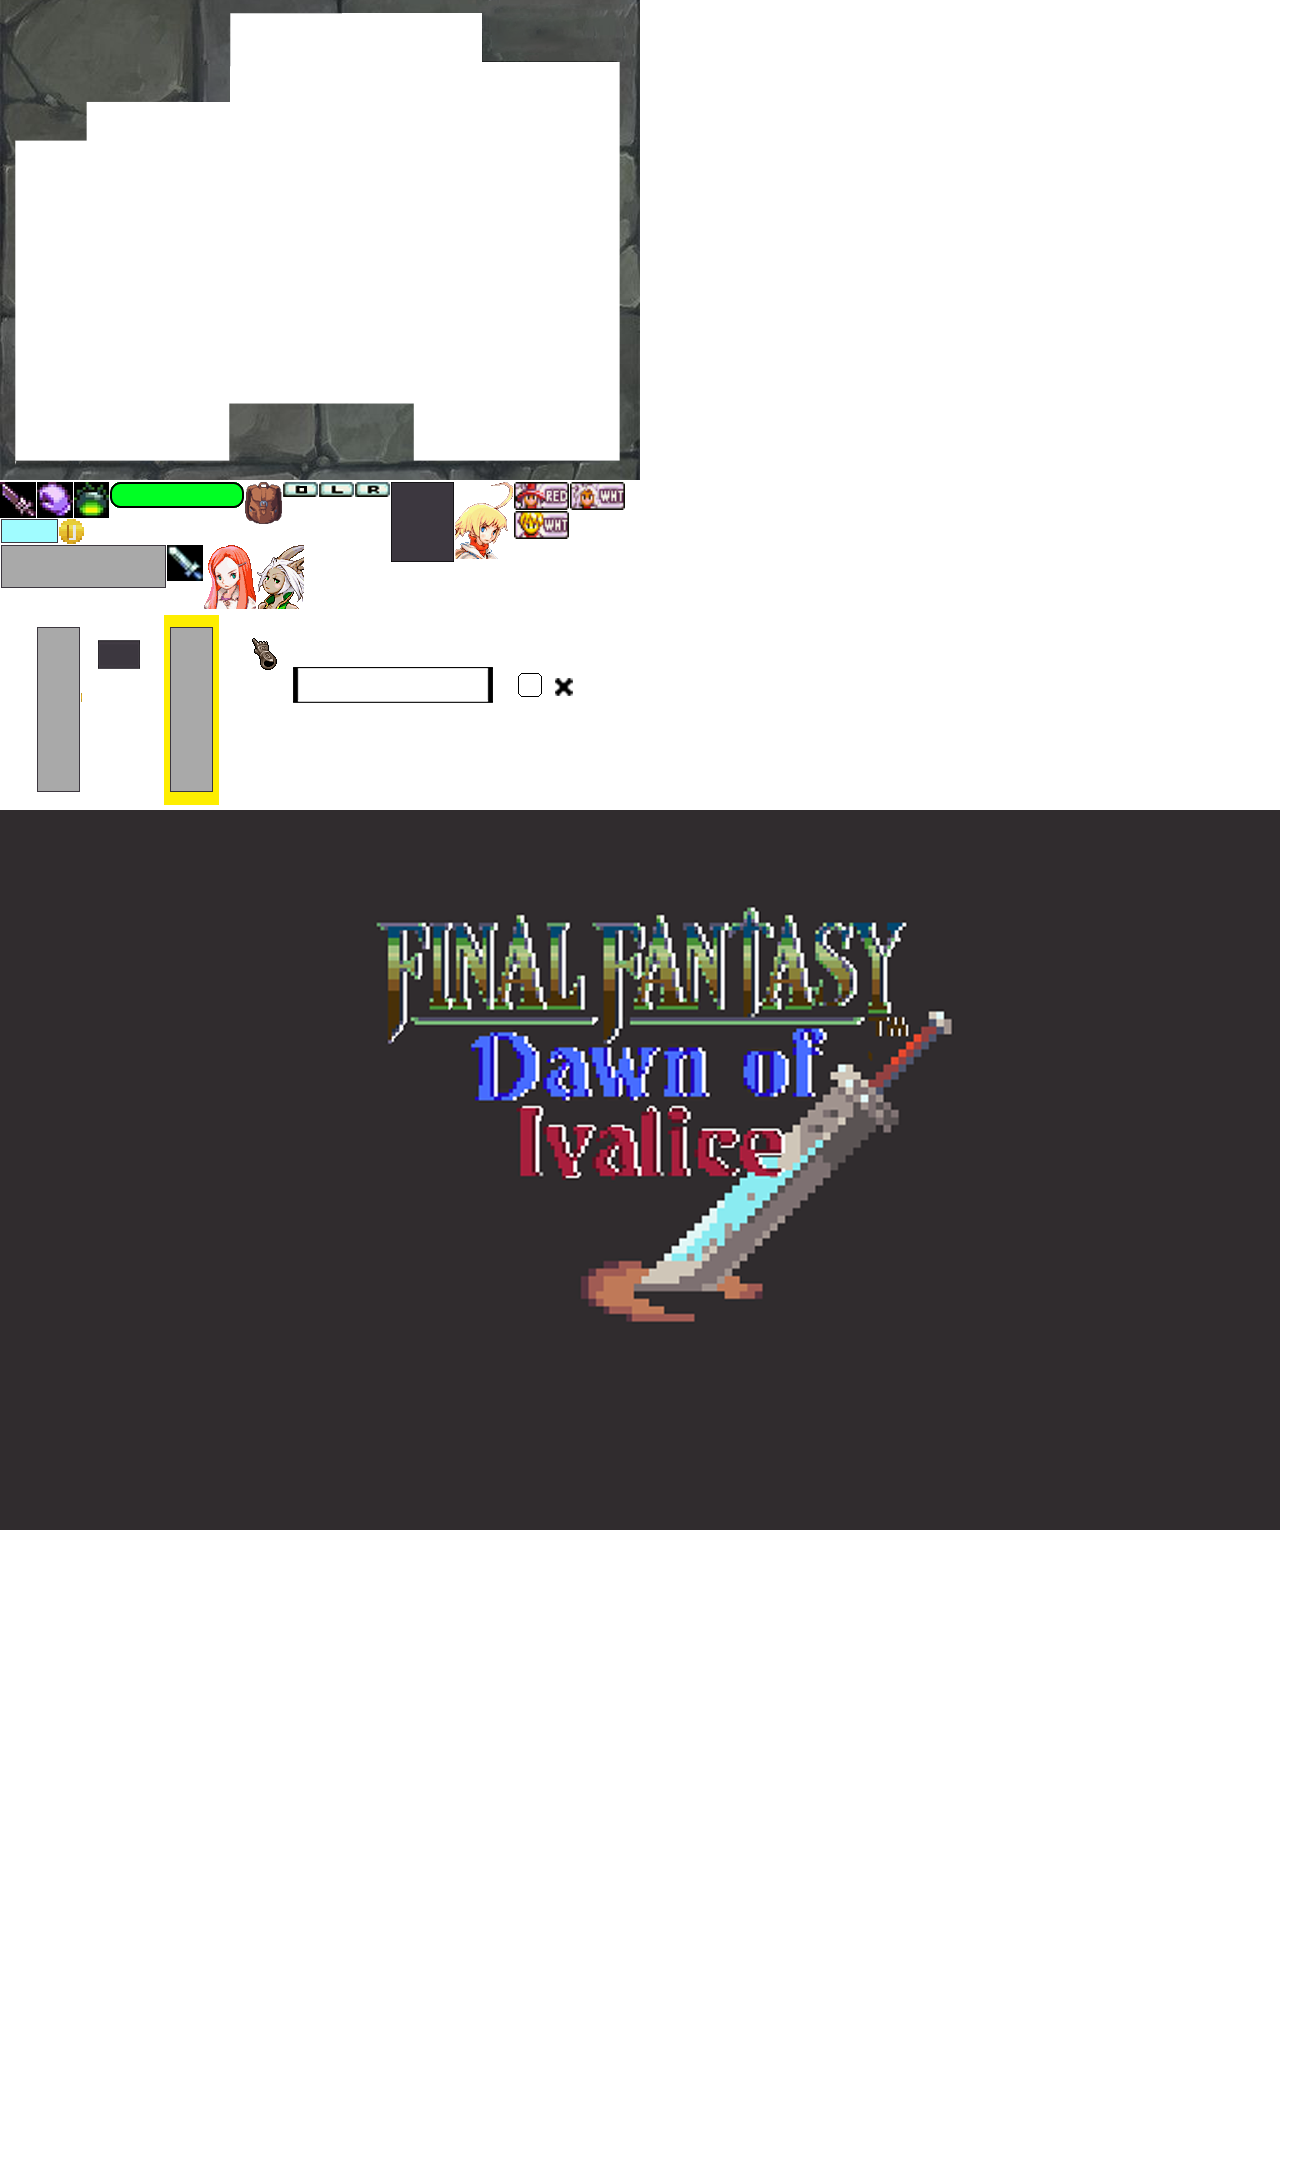
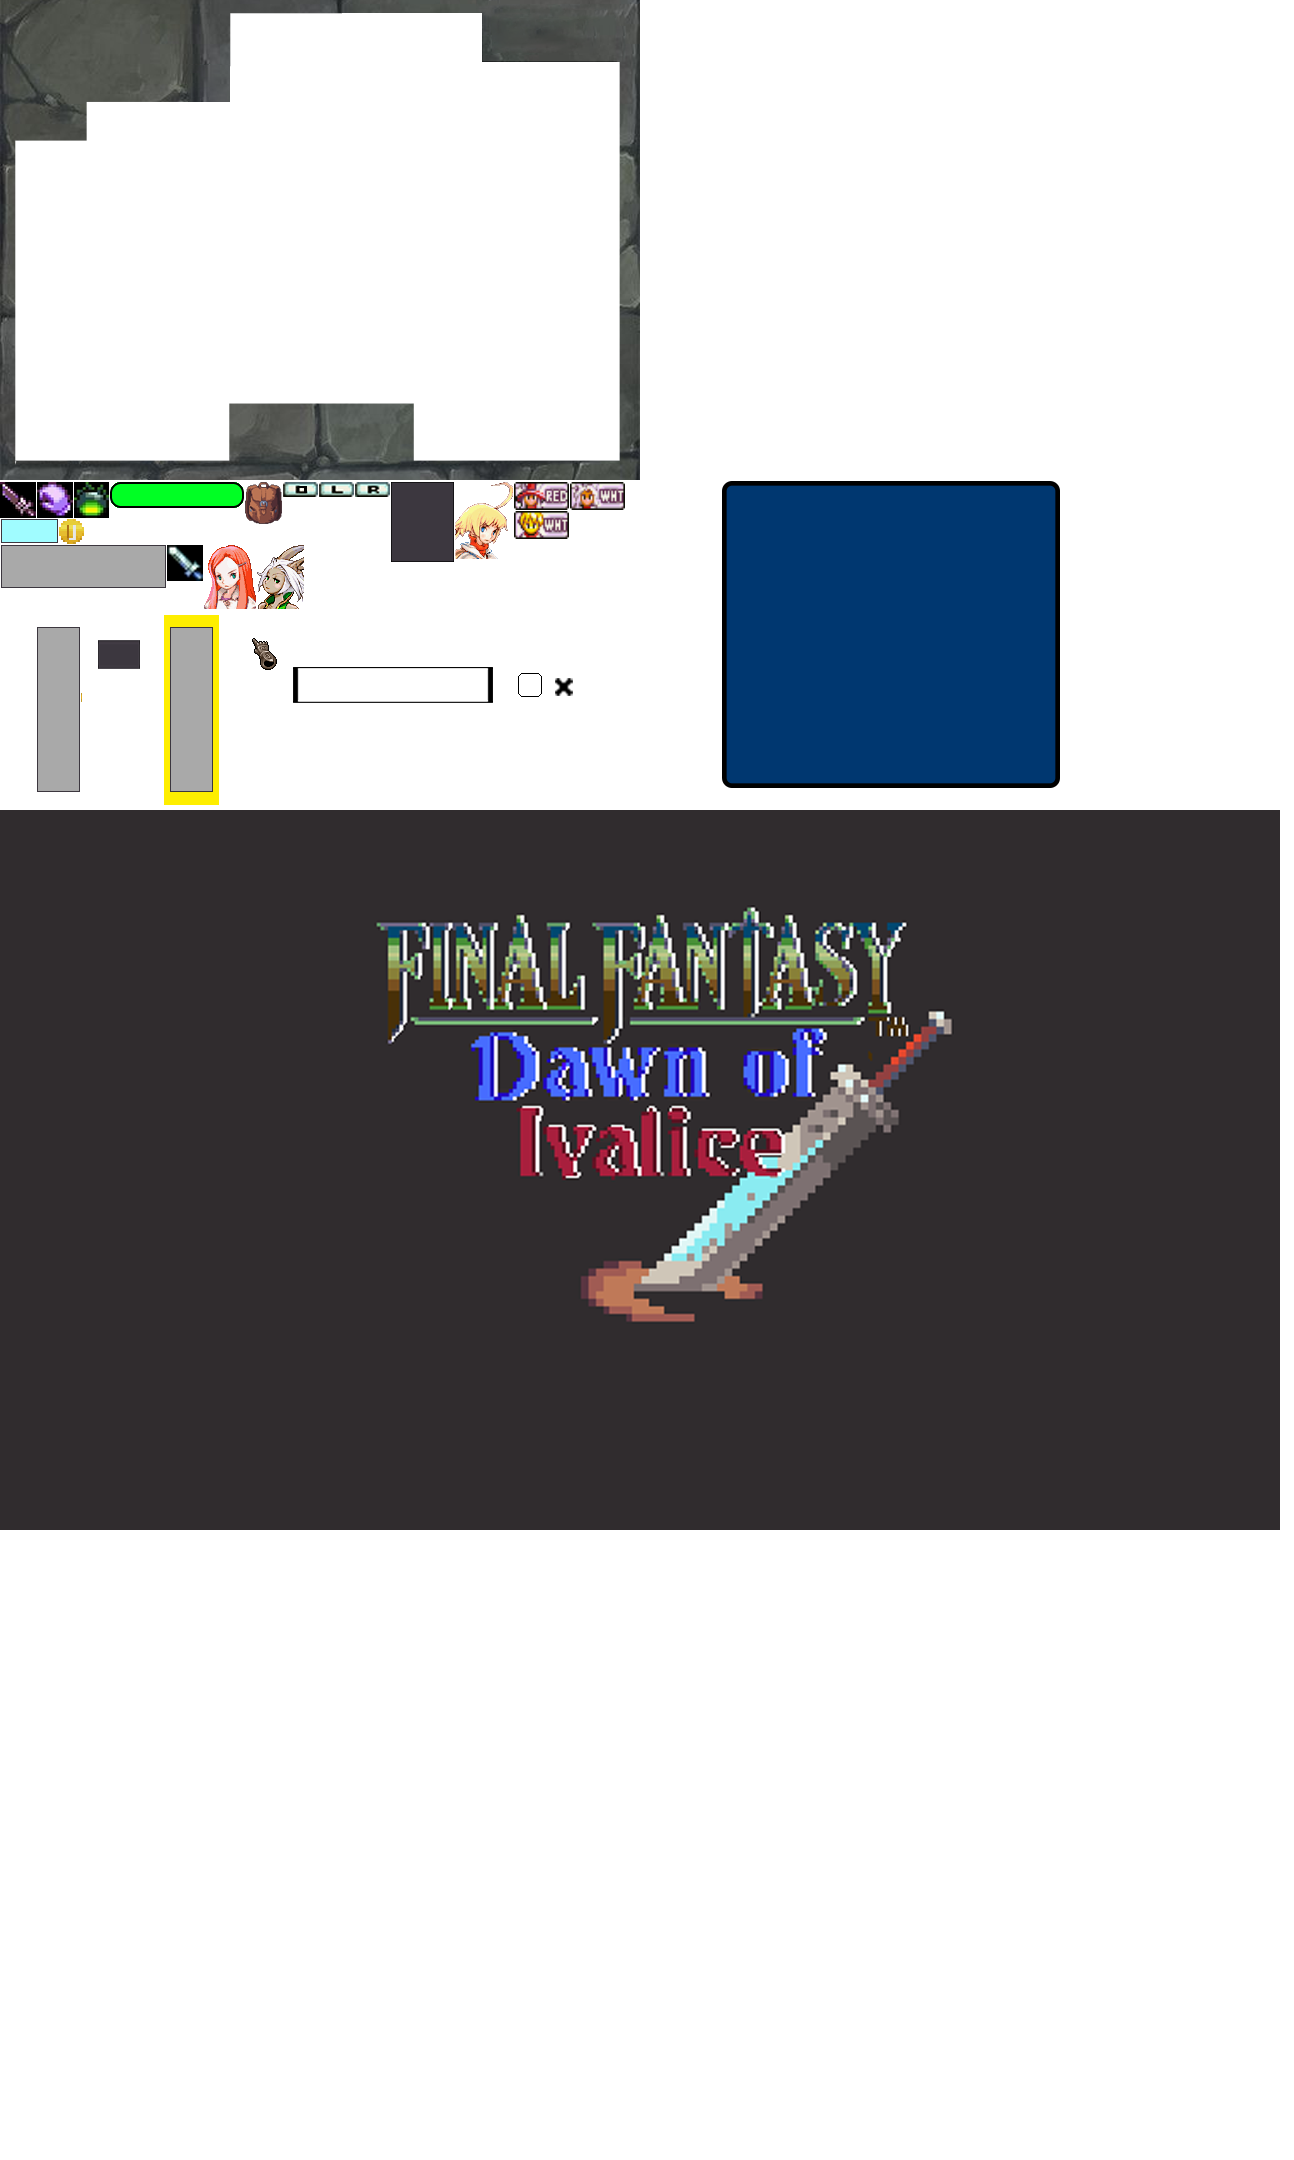
panel loading etc started

Changed region(s): [[0.5564, 0.2171, 0.8346, 0.3722]]

diff --git a/Motor2D/j1Gui.cpp b/Motor2D/j1Gui.cpp
@@ -40,14 +40,14 @@ bool j1Gui::Update(float dt)
 
 	// TESTING TAB, its "faked" for the mom, only bars 
 
-	/*if (!resetHoverSwapping)
+	if (!resetHoverSwapping)
 	{
 		ApplyTabBetweenSimilar(resetHoverSwapping);
 		resetHoverSwapping = true; 
 	}
 	else {
 		ApplyTabBetweenSimilar(resetHoverSwapping);
-	}*/
+	}
 
 	return true;
 }
@@ -80,103 +80,88 @@ void j1Gui::DoLogicSelected() {
 
 void j1Gui::SearchandSelectClicked() {
 
-	iPoint mousePos;
-	int x, y; 
-    App->input->GetMousePosition(x, y);
-	mousePos.x = x; 	mousePos.y = y;
 
-	uint mouseButtonDown = App->input->GetCurrentMouseButtonDown();
-	std::list<UiItem*>::iterator item = ListItemUI.begin(); 
+
+	/*std::list<UiItem*>::iterator item = ListItemUI.begin();
 
 	for (; item != ListItemUI.end(); item++)
 	{
-		/*if ((*item)->hitBox.x > 0)   // to prevent selecting the empty object 
-		{*/
-			if (!(*item)->tabbed)               // tabbed items should skip this 
+		if ((*item)->tabbed)               // tabbed items should skip this 
+		{
+			if ((*item)->state != CLICK && mouseButtonDown != 0)
 			{
-				if (mousePos.x * App->win->GetScale()> (*item)->hitBox.x && mousePos.x * App->win->GetScale() < (*item)->hitBox.x + (*item)->hitBox.w
-					&& mousePos.y * App->win->GetScale() >(*item)->hitBox.y && mousePos.y * App->win->GetScale() < (*item)->hitBox.y + (*item)->hitBox.h)
+
+				if (selected_object->tabbed && (*item)->guiType == selected_object->guiType)    // condition so that if there was a tabbed object, it must not be selected now
 				{
-
-					if ((*item)->state != CLICK && mouseButtonDown != 0)
-					{
-
-						/*if (selected_object->tabbed && (*item)->guiType == selected_object->guiType)    // condition so that if there was a tabbed object, it must not be selected now
-						{
-							selected_object->tabbed = false;
-							selected_object->state = IDLE;               // deselect current object
-							selected_object->DoLogicAbandoned();
+					selected_object->tabbed = false;
+					selected_object->state = IDLE;               // deselect current object
+					selected_object->DoLogicAbandoned();
 
 
-							selected_object = (*item);                     // the selected object is now tabbed
-							selected_object->state = HOVER;
-							selected_object->tabbed = true;
-
-						}
-						else
-						{*/
-							(*item)->mouseButtonDown = mouseButtonDown;
-							(*item)->state = CLICK;
-							selected_object = *item;
-						//}
-
-
-					}
-
-					if (((*item)->state == CLICK || (*item)->state == DRAG) && App->input->GetMouseButtonDown((*item)->mouseButtonDown) == KEY_UP)
-					{
-						(*item)->state = HOVER;
-					}
-
-					if (App->input->GetMouseButtonDown((*item)->mouseButtonDown) == KEY_REPEAT)
-					{
-						(*item)->state = DRAG;
-					}
-
-
-
-					else if ((*item)->state == IDLE)
-					{
-						(*item)->state = HOVER;
-						(*item)->DoLogicHovered(false);   // check this call
-					}
-
-
+					selected_object = (*item);                     // the selected object is now tabbed
+					selected_object->state = HOVER;
+					selected_object->tabbed = true;
 
 				}
-				else  if ((*item)->state != IDLE)       // When an item is outside 
+				else
 				{
-
-
-					if (!(*item)->slidable)        // If it is not slider, then it switches to IDLE
-					{
-						(*item)->state = IDLE;
-						(*item)->DoLogicAbandoned(false);
-					}
-					else if ((*item)->state == DRAG)        // sliders can be dragged outside the bar
-					{
-
-						if (App->input->GetMouseButtonDown((*item)->mouseButtonDown) == KEY_UP)
-						{
-							(*item)->iFriend->state = IDLE;
-							(*item)->state = IDLE;
-						}
-						else
-						{
-							(*item)->iFriend->DoLogicDragged(true); // slider thumbs are still hovered if mouse leaves the bar
-						}
-					}
-
+				(*item)->mouseButtonDown = mouseButtonDown;
+				(*item)->state = CLICK;
+				selected_object = *item;
 				}
-				if (App->input->GetMouseButtonDown((*item)->mouseButtonDown) == KEY_UP || App->input->GetMouseButtonDown((*item)->mouseButtonDown) == KEY_IDLE)
-					(*item)->mouseButtonDown = 0;
 
 
 			}
-		}
-//	}
 
-}
+			if (((*item)->state == CLICK) && App->input->GetMouseButtonDown((*item)->mouseButtonDown) == KEY_UP)
+			{
+				(*item)->state = HOVER;
+			}
+
+			if (App->input->GetMouseButtonDown((*item)->mouseButtonDown) == KEY_REPEAT)
+			{
+				(*item)->state = DRAG;
+			}
+
+
+
+			else if ((*item)->state == IDLE)
+			{
+				(*item)->state = HOVER;
+				(*item)->DoLogicHovered(false);   // check this call
+			}
+
+
+
+		}                    // REWORK ALL THIS WITHOUT MOUSE 
+
+		/*else  if ((*item)->state != IDLE)       // When an item is outside
+		{
+
+
+			if (!(*item)->slidable)        // If it is not slider, then it switches to IDLE
+			{
+				(*item)->state = IDLE;
+				(*item)->DoLogicAbandoned(false);
+			}
+			else if ((*item)->state == DRAG)        // sliders can be dragged outside the bar
+			{
+
+				if (App->input->GetMouseButtonDown((*item)->mouseButtonDown) == KEY_UP)
+				{
+					(*item)->iFriend->state = IDLE;
+					(*item)->state = IDLE;
+				}
+				else
+				{
+					(*item)->iFriend->DoLogicDragged(true); // slider thumbs are still hovered if mouse leaves the bar
+				}
+				}
+			}*/
+
+
+	}
+
 
 /*
 void j1Gui::ResolveChildren(UiItem* parent){
@@ -194,32 +179,6 @@ void j1Gui::ResolveChildren(UiItem* parent){
 }*/
 
 void j1Gui::ApplyTabBetweenSimilar(bool setClicked) {
-
-	// first check that, while one object is tabbed, the user can hover another one (CAUTION HERE): 
-	
-	/*if (selected_object != nullptr && selected_object->guiType == BAR)  // change this to the same tye as current
-	{
-		std::list<UiItem*>::iterator theNewOne = ListItemUI.begin();
-
-		for (; theNewOne != ListItemUI.end(); theNewOne++)
-		{
-			if ((*theNewOne)->guiType == BAR && selected_object != (*theNewOne))
-			{
-				if ( (*theNewOne)->state == CLICK)
-				{
-					selected_object->tabbed = false;
-					selected_object->state = IDLE;               // deselect current object
-					selected_object->DoLogicAbandoned();
-
-					selected_object = (*theNewOne);
-					(*theNewOne)->state = HOVER;
-					(*theNewOne)->tabbed = true;
-				}
-			}
-		}
-
-	}*/
-
 
 
 	std::list<UiItem*>::iterator item = ListItemUI.begin();
@@ -401,14 +360,14 @@ UiItem_Label * j1Gui::AddLabel(std::string text, SDL_Color color, TTF_Font * fon
 	
 }
 
-UiItem_Image * j1Gui::AddImage(iPoint position, const SDL_Rect* section, UiItem *const parent)
+UiItem_Image * j1Gui::AddImage(iPoint position, const SDL_Rect* section, UiItem *const parent, bool isPanel)
 {
 	UiItem* newUIItem = nullptr;
 
 	if (parent == NULL)
-		newUIItem = new UiItem_Image(position, section, canvas);
+		newUIItem = new UiItem_Image(position, section, canvas, isPanel);
 	else
-		newUIItem = new UiItem_Image(position, section, parent);
+		newUIItem = new UiItem_Image(position, section, parent, isPanel);
 
 	ListItemUI.push_back(newUIItem);
 

diff --git a/Motor2D/j1Scene.cpp b/Motor2D/j1Scene.cpp
@@ -208,7 +208,33 @@ void j1Scene::LoadUiElement(UiItem*parent, pugi::xml_node node)
 	{
 		SDL_Rect section = { uiNode.child("section").attribute("x").as_int(), uiNode.child("section").attribute("y").as_int(), uiNode.child("section").attribute("w").as_int(), uiNode.child("section").attribute("h").as_int() };
 		iPoint position = { uiNode.child("position").attribute("x").as_int(), uiNode.child("position").attribute("y").as_int() };
-		App->gui->AddImage(position, &section, parent);
+
+		int isPanel = uiNode.child("flag").attribute("isPanel").as_int();
+		// App->gui->AddImage(position, &section, parent, isPanel);
+
+
+		// PANELS
+
+		if (!isPanel)
+		{
+			App->gui->AddImage(position, &section, parent, isPanel);
+		}
+		else 
+		{
+			// BARS INSIDE PANEL
+			
+			for (node.child("bars").child("bar"); uiNode; uiNode = uiNode.next_sibling("bar"))
+			{
+			    UiItem_Image* panel = App->gui->AddImage(position, &section, parent, isPanel); 
+
+				iPoint position = { uiNode.child("position").attribute("x").as_int(), uiNode.child("position").attribute("y").as_int() };
+				SDL_Rect section_bar = { uiNode.child("section_bar").attribute("x").as_int(), uiNode.child("section_bar").attribute("y").as_int(), uiNode.child("section_bar").attribute("w").as_int(), uiNode.child("section_bar").attribute("h").as_int() };
+				SDL_Rect section_thumb = { uiNode.child("section_thumb").attribute("x").as_int(), uiNode.child("section_thumb").attribute("y").as_int(), uiNode.child("section_thumb").attribute("w").as_int(), uiNode.child("section_thumb").attribute("h").as_int() };
+				App->gui->AddBar(position, &section_bar, &section_thumb, panel); // PANEL AS PARENT
+			}
+
+		}
+
 	}
 
 	// labels
@@ -237,8 +263,6 @@ void j1Scene::LoadUiElement(UiItem*parent, pugi::xml_node node)
 
 		// MORE BARS JUST FOR TESTING 
 
-		App->gui->AddBar(iPoint(position.x + 150, position.y), &section_bar, &section_thumb, nullptr/*, VERTICAL*/);
-		App->gui->AddBar(iPoint(position.x + 300, position.y), &section_bar, &section_thumb, nullptr/*, VERTICAL*/);
 		App->gui->AddBar(iPoint(position.x + 450, position.y), &section_bar, &section_thumb, nullptr/*, VERTICAL*/);
 	}
 

diff --git a/Motor2D/j1Gui.h b/Motor2D/j1Gui.h
@@ -34,7 +34,7 @@ public:
 	std::list<UiItem*>	ListItemUI;
 	UiItem* canvas = nullptr;
 	UiItem_Label* AddLabel(std::string text, SDL_Color color, TTF_Font * font, p2Point<int> position, UiItem*const parent);
-	UiItem_Image* AddImage(iPoint position, const SDL_Rect* section, UiItem *const parent);
+	UiItem_Image* AddImage(iPoint position, const SDL_Rect* section, UiItem *const parent, bool isPanel = false);
 	UiItem_Bar* AddBar(iPoint position, const SDL_Rect* section, const SDL_Rect* thumb_section, UiItem*const parent); // , TypeBar type = VERTICAL);
 	UiItem* AddEmptyElement(iPoint pos, UiItem * const parent = nullptr);
 	UiItem_Checkbox* AddCheckbox(iPoint position, const SDL_Rect* panel_section, const SDL_Rect* box_section, const SDL_Rect* tick_section, UiItem*const parent = nullptr); // check the null parent

diff --git a/Motor2D/UiItem_Image.cpp b/Motor2D/UiItem_Image.cpp
@@ -5,7 +5,7 @@
 #include "j1Gui.h"
 #include "j1Scene.h"
 
-UiItem_Image::UiItem_Image(iPoint position, const SDL_Rect* section, UiItem*const parent) : UiItem(position, parent)
+UiItem_Image::UiItem_Image(iPoint position, const SDL_Rect* section, UiItem*const parent, bool isPanel) : UiItem(position, parent)
 {
 	this->section = *section;
 	this->guiType = GUI_TYPES::IMAGE;
@@ -13,6 +13,11 @@ UiItem_Image::UiItem_Image(iPoint position, const SDL_Rect* section, UiItem*cons
 
 	this->hitBox.w = section->w; 
 	this->hitBox.h = section->h;
+
+	if (isPanel == 1)
+	{
+		this->isPanel = true; 
+	}
 }
 
 void UiItem_Image::Draw(const float& dt)

diff --git a/Motor2D/UiItem_Image.h b/Motor2D/UiItem_Image.h
@@ -10,7 +10,7 @@ class UiItem_Image : public UiItem
 {
 
 public:
-	UiItem_Image(iPoint position, const SDL_Rect* section, UiItem*const parent);
+	UiItem_Image(iPoint position, const SDL_Rect* section, UiItem*const parent, bool isPanel = false);
 	//UiItem_Image(SDL_Rect hitBox, const Animation& section, UiItem*const parent, p2Point<int> pivot = { 0,0 });
 	void Draw(const float& dt);
 	SDL_Rect section;
@@ -29,6 +29,7 @@ private:
 	}
 
 	bool hide = false; 
+	bool isPanel = false; 
 
 public: 
 	friend class UiItem_Bar; 

diff --git a/Motor2D/UiItem_Checkbox.cpp b/Motor2D/UiItem_Checkbox.cpp
@@ -56,7 +56,7 @@ void UiItem_Checkbox::Draw(const float & dt)
 
 void UiItem_Checkbox::DoLogicClicked(bool do_slide) {
 
-
+	tick->hide = !tick->hide; 
 }
 
 
